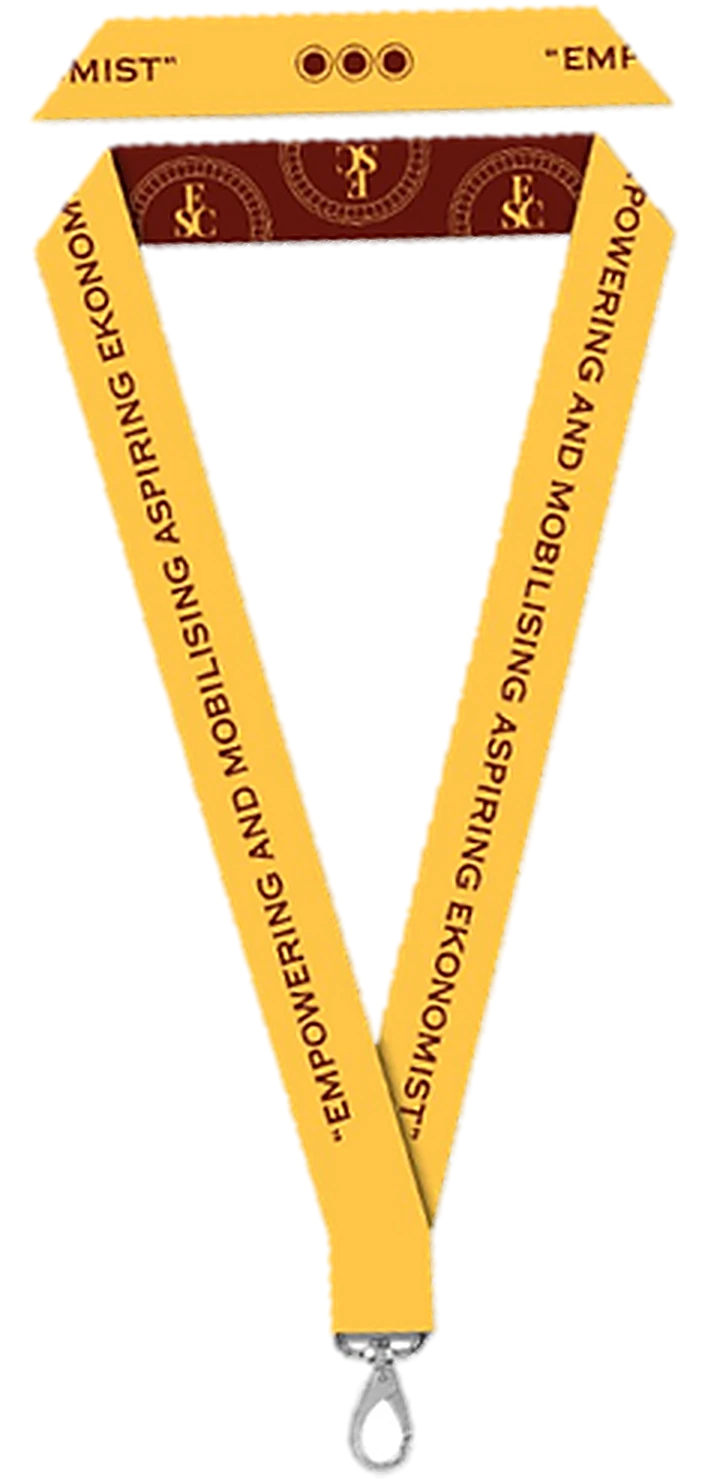
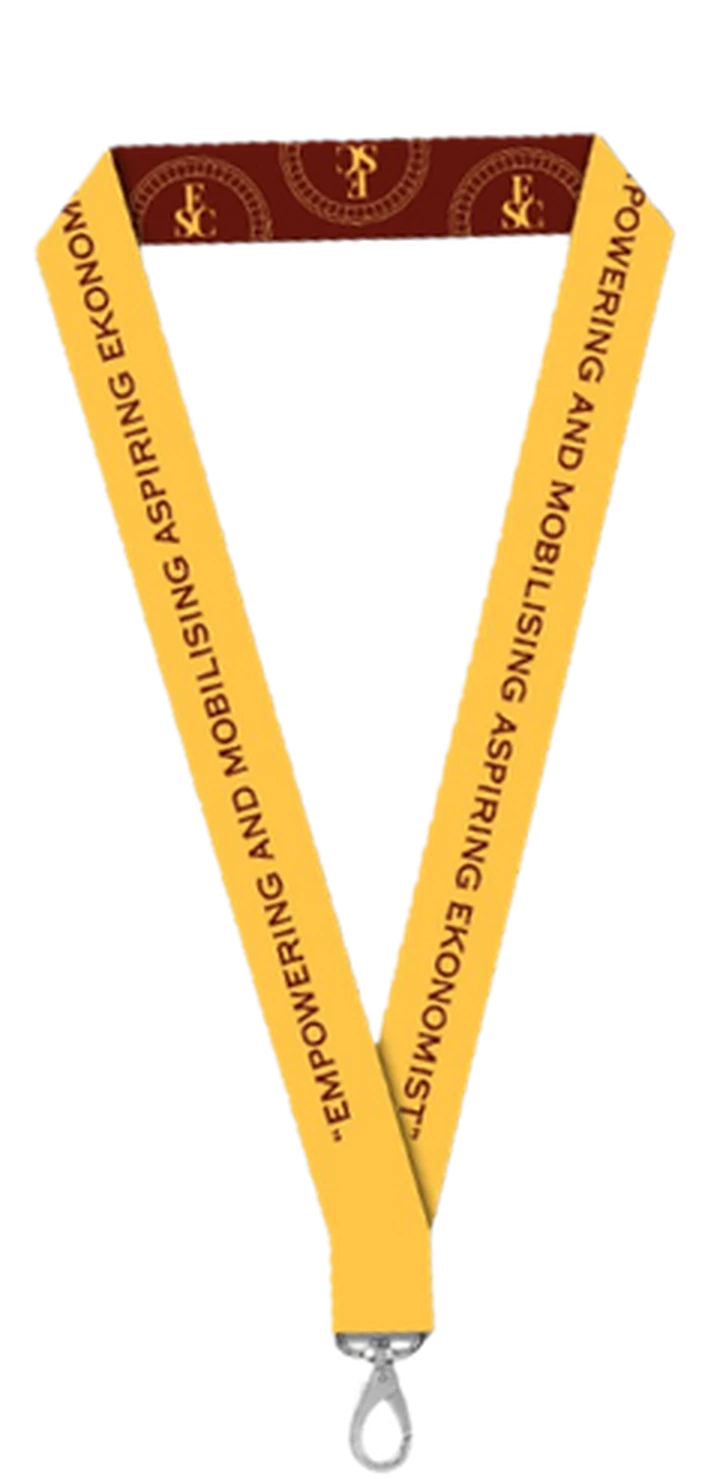
Merch: original photos with Front/Back toggle; lanyard top strip removed
Claude-Session: https://claude.ai/code/session_01DLRbUknRiV98Nmzf7SNfVT

diff --git a/src/styles.css b/src/styles.css
@@ -1174,8 +1174,8 @@ strong, b { background: linear-gradient(transparent 58%, rgba(255,197,73,.6) 0);
 
 /* Merch photo viewer */
 .spin { width: 100%; margin: 1.4rem 0 .6rem; }
-.spin-stage { position: relative; height: clamp(300px, 32vw, 430px); cursor: grab; touch-action: pan-y; user-select: none; -webkit-user-select: none; }
-.spin-stage:active { cursor: grabbing; }
+.spin-stage { position: relative; height: clamp(300px, 32vw, 430px); touch-action: pan-y; user-select: none; -webkit-user-select: none; }
+.spin-stage.draggable { cursor: grab; } .spin-stage.draggable:active { cursor: grabbing; }
 .spin-img { position: absolute; inset: 0 6% 7% 6%; width: 88%; height: 93%; object-fit: contain; opacity: 0; transform: scale(.985); transition: opacity .45s ease, transform .6s ease; pointer-events: none; -webkit-user-drag: none; }
 .spin-img.on { opacity: 1; transform: none; }
 .spin-shadow { position: absolute; left: 24%; right: 24%; bottom: 2%; height: 16px; border-radius: 50%; background: radial-gradient(closest-side, rgba(0,0,0,.13), transparent); }

diff --git a/src/components/MerchSpin.jsx b/src/components/MerchSpin.jsx
@@ -22,8 +22,8 @@ export default function MerchSpin({ frames, label }) {
 
   return (
     <div className="spin">
-      <div className="spin-stage" onPointerDown={down} onPointerMove={move} onPointerUp={up} onPointerCancel={up}
-        role="img" aria-label={`${label}. Drag to turn it.`}>
+      <div className={`spin-stage ${n > 2 ? 'draggable' : ''}`} {...(n > 2 ? { onPointerDown: down, onPointerMove: move, onPointerUp: up, onPointerCancel: up } : {})}
+        role="img" aria-label={label}>
         {frames.map((src, k) => (
           <img key={src} src={src} alt="" draggable="false" className={`spin-img ${k === i ? 'on' : ''}`} />
         ))}

diff --git a/src/pages/Merch.jsx b/src/pages/Merch.jsx
@@ -45,7 +45,7 @@ export default function Merch() {
       <header className="mstore-hero">
         <p className="mstore-kicker">ESC Merch</p>
         <h1>Made for aspiring ekonomists.</h1>
-        <p className="mstore-lead">Drag to see the back.</p>
+        <p className="mstore-lead">Wear the Chamber, carry the Chamber.</p>
       </header>
       {SECTIONS.map((sec) => {
         const list = items.filter((i) => i.category === sec.key);
